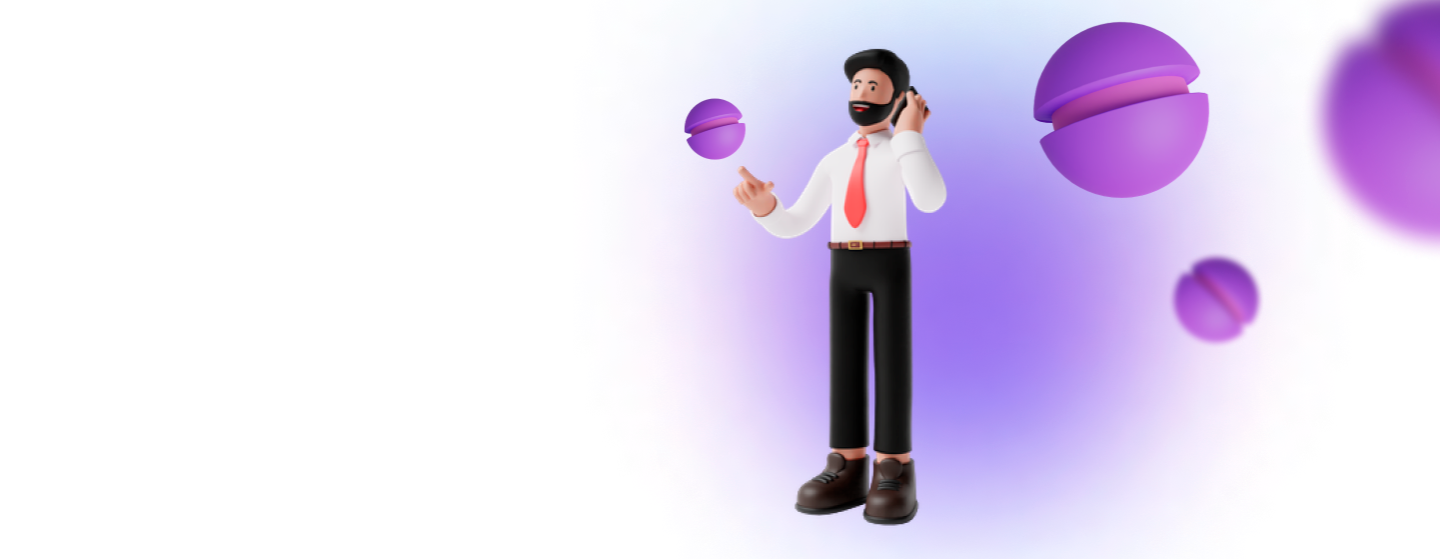
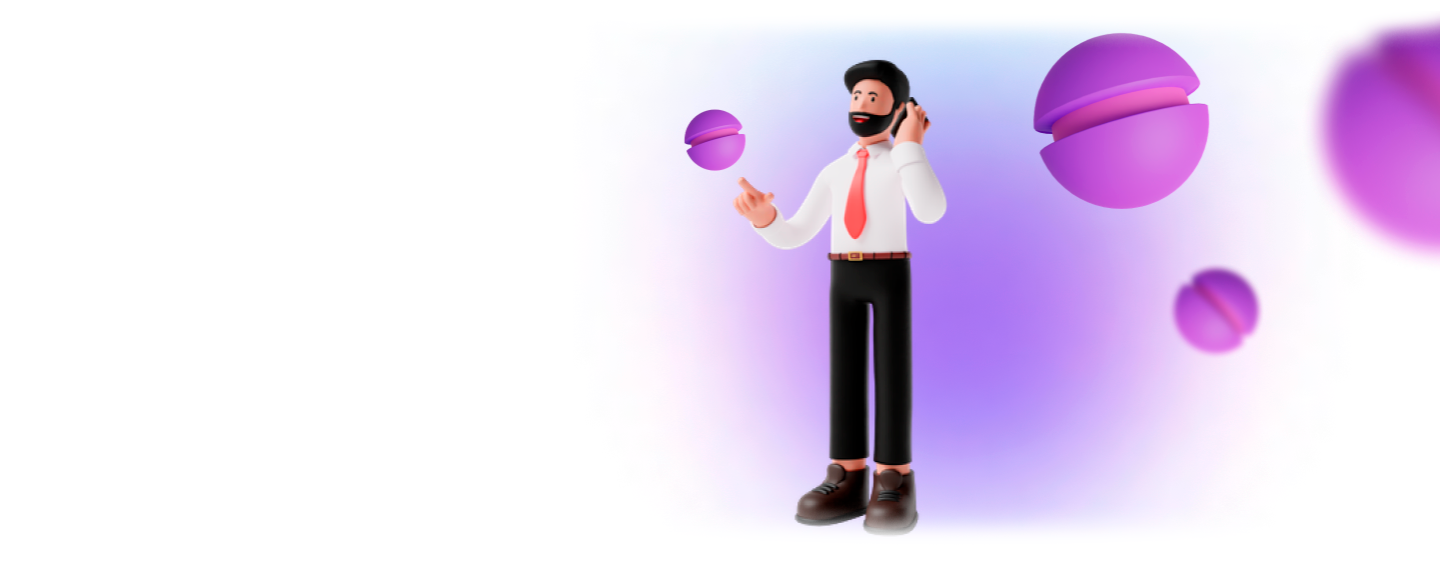
Finalizando versão web

diff --git a/src/components/section-contatos/sectionContatos.css b/src/components/section-contatos/sectionContatos.css
@@ -1,0 +1,84 @@
+.contatos{
+    display: flex;
+    flex-direction: column;
+    gap: 1rem;
+    background-color: #f8f5fa;
+    height: 559px;
+    width: 100%;
+    justify-content: center;
+    text-align: center;
+    align-items: center;
+}
+
+.contatos img{
+    width: 154px;
+}
+
+.contatos h3{
+    font-family: 'Poppins';
+    color: #2B0955;
+    font-size: 24px;
+    font-weight: 600;
+}
+
+.contatos hr{
+    width: 97px;
+    border: 2px solid #FBC508;
+    align-items: center;
+    justify-content: center;
+    text-align: center;
+}
+
+.textForm{
+    display: grid;
+    grid-template-columns: 300px 400px;
+    gap: 15rem;
+}
+
+.txtContatos{
+    display: flex;
+    flex-direction: column;
+    gap: 25px;
+    width: 300px;
+    text-align: start;
+}
+
+.txtContatos p{
+    font-size: 16px;
+}
+
+.txtContatos span{
+    text-decoration: underline;
+    color: #2B0955;
+    font-weight: 700;
+    cursor: pointer;
+}
+
+.txtContatos em{
+    color: #7910FF;
+    font-weight: 700;
+}
+
+.form{
+    display: flex;
+    flex-direction: column;
+    text-align: start;
+}
+
+.form label{
+    color: #7910FF;
+    font-weight: 700;
+    font-size: 14px;
+    margin-top: 10px;
+}
+
+.form input{
+    border-radius: 5px;
+    height: 40px;
+    padding-left: 10px;
+}
+
+.formButton{
+    display: flex;
+    justify-content: end;
+}

diff --git a/src/components/section-contatos/SectionContatos.jsx b/src/components/section-contatos/SectionContatos.jsx
@@ -13,17 +13,19 @@ function SectionContatos() {
           <p>Ofereça um meio de comunicação direto. Pode ser um <strong>contato@email.com.br</strong></p>
           <p>Ou crie um formulárioao lado que entrem em contato <em><strong>o mais rápido possível</strong></em></p>
           <div>
-            <MdWhatsapp /><span> Hey! Estamos no WhatsApp!</span>
+            <MdWhatsapp size={39}/><span> Hey! Estamos no WhatsApp!</span>
           </div>
         </div>
         <div className="form">
           <label htmlFor="nome">Nome</label>
           <input type="text" name="nome" id="" placeholder='Nome Sobrenome'/>
           <label htmlFor="email">Email</label>
-          <input type="text" name="email" id="" placeholder='email@email.com.br'/>
+          <input type="email" name="email" id="" placeholder='email@email.com.br'/>
           <label htmlFor="telefone">Telefone</label>
-          <input type="text" name="telefone" id="" placeholder='XX 00000-0000'/>
-          <button className='btn btn-yellow' type="button">Enviar!</button>
+          <input type="number" name="telefone" id="" placeholder='XX 00000-0000'/>
+          <div className="formButton">
+            <button className='btn btn-yellow' type="button">Enviar!</button>
+          </div>
         </div>
       </div>
     </div>

diff --git a/src/components/quem-somos/QuemSomos.jsx b/src/components/quem-somos/QuemSomos.jsx
@@ -5,14 +5,16 @@ function QuemSomos() {
   return (
     <div className="containerQuemSomos">
       
-      <div className="textsSomos">
-        <span>#CONTECOMAGENTE</span>
-        <h3>Simples, rápido <br />e do seu jeito.</h3>
-        <p>Mostre os valores da sua marca e como ela pode fazer parte da vida do usuário que está lendo. Gerar identificação e a chave para <em>conquistar seu cliente.</em></p>
-      </div>
+      <div className="conteudoSomos">
+        <div className="textsSomos">
+          <span>#CONTECOMAGENTE</span>
+          <h3>Simples, rápido <br />e do seu jeito.</h3>
+          <p>Mostre os valores da sua marca e como ela pode fazer parte da vida do usuário que está lendo. Gerar identificação e a chave para <em>conquistar seu cliente.</em></p>
+        </div>
 
-      <div className="buttonSomos">
-        <button className='btn btn-yellow' type="button"> Eu quero!</button>
+        <div className="buttonSomos">
+          <button className='btn btn-yellow btn-somos' type="button"> Eu quero!</button>
+        </div>
       </div>
     </div>
   )

diff --git a/src/components/quem-somos/quemSomos.css b/src/components/quem-somos/quemSomos.css
@@ -1,11 +1,44 @@
 .containerQuemSomos{
-    background-image: url('../../../public/assets/images/quemsomos.png');
+    background:URL('../../../public/assets/images/quemsomos.png');
+    background-size: cover;
     min-width: 1440px;
-    min-height: 559px;
+    min-height: 679px;
+    margin-top: 80px;
 }
 
-.containerBanner{
-    background-image: url('../../../public/assets/images/banner.png');
-    min-width: 1440px;
-    min-height: 559px;
+.conteudoSomos{
+    display: flex;
+    flex-direction: column;
+    margin-left: 15%;
+    padding-top: 10%;
+    max-width: 442px;
+}
+
+.textsSomos span{
+    color: #7E41B7;
+    font-size: 16px;
+    font-weight: 700;
+}
+
+.textsSomos h3{
+    font-family: 'Poppins';
+    color: #3a1f54;
+    font-size: 36px;
+    font-weight: 700;
+}
+
+.textsSomos p{
+    font-size: 16px;
+}
+
+.textsSomos em{
+    font-weight: 900;
+    color: #7E41B7;
+    font-style: normal;
+}
+
+.btn-somos{
+    margin: 0;
+    margin-top: 10px;
+
 }

diff --git a/src/components/footer/footer.css b/src/components/footer/footer.css
@@ -1,0 +1,45 @@
+.containerFooter{
+    height: 330px;
+    background-color: #2B0955;
+}
+
+.menuFotter{
+    display: flex;
+    flex-direction: row;
+    width: 100%;
+    align-items: center;
+    justify-content: center;
+    text-align: center;
+}
+
+
+.nextlatter{
+    display: inline-flex;
+    align-items: center;
+    justify-content: center;
+    color: #fff;
+    width: 1197px;
+    gap: 15px;
+    margin-top: 80px;
+    margin-bottom: 40px;
+}
+
+.inputButton input{
+    padding-left: 10px;
+    background-color: transparent;
+    border: 1px solid #fff;
+    height: 35px;
+}
+
+.inputButton button{
+    margin: 0;
+    height: 35px;
+}
+
+.direitos{
+    text-align: center;
+    margin-top: 5px;
+    font-family: 'Poppins';
+    font-size: 12px;
+    color: #fff;
+}

diff --git a/src/components/footer/Footer.jsx b/src/components/footer/Footer.jsx
@@ -1,8 +1,21 @@
 import React from 'react'
+import './footer.css'
+import Menu from '../menu/menu'
 
 function Footer() {
   return (
-    <div>Footer</div>
+    <div className="containerFooter">
+      <div className="menuFotter"><Menu white/></div>  
+      <div className="nextlatter">
+        <span>Receba as novidades da borges</span>
+        <div className="inputButton">
+          <input type="email" name="" id="" placeholder='email@email.com.br'/>
+          <button className=' btn btn-white' type="button">Inscrever</button>
+        </div>
+      </div>
+      <hr />
+      <p className='direitos'>Borges template by @willianborges  on Figma - 2024</p>
+    </div>
   )
 }
 

diff --git a/src/components/menu/menu.jsx b/src/components/menu/menu.jsx
@@ -3,9 +3,9 @@ import './menu.css'
 import { FaFacebookF } from "react-icons/fa";
 import { FaInstagram } from "react-icons/fa6";
 
-function Menu() {
+function Menu(props) {
   return (
-    <div className="containerMenu">
+    <div className={props.white ? "containerMenu fontWhite" : "containerMenu" }>
       <div className="logoMenu">
         <h4>borges</h4>
       </div>

diff --git a/src/components/menu/menu.css b/src/components/menu/menu.css
@@ -34,3 +34,11 @@
     display: flex;
     gap: 2.5rem;
 }
+
+.fontWhite{
+    color: #fff;
+}
+
+.fontWhite a{
+    color: #fff;
+}
